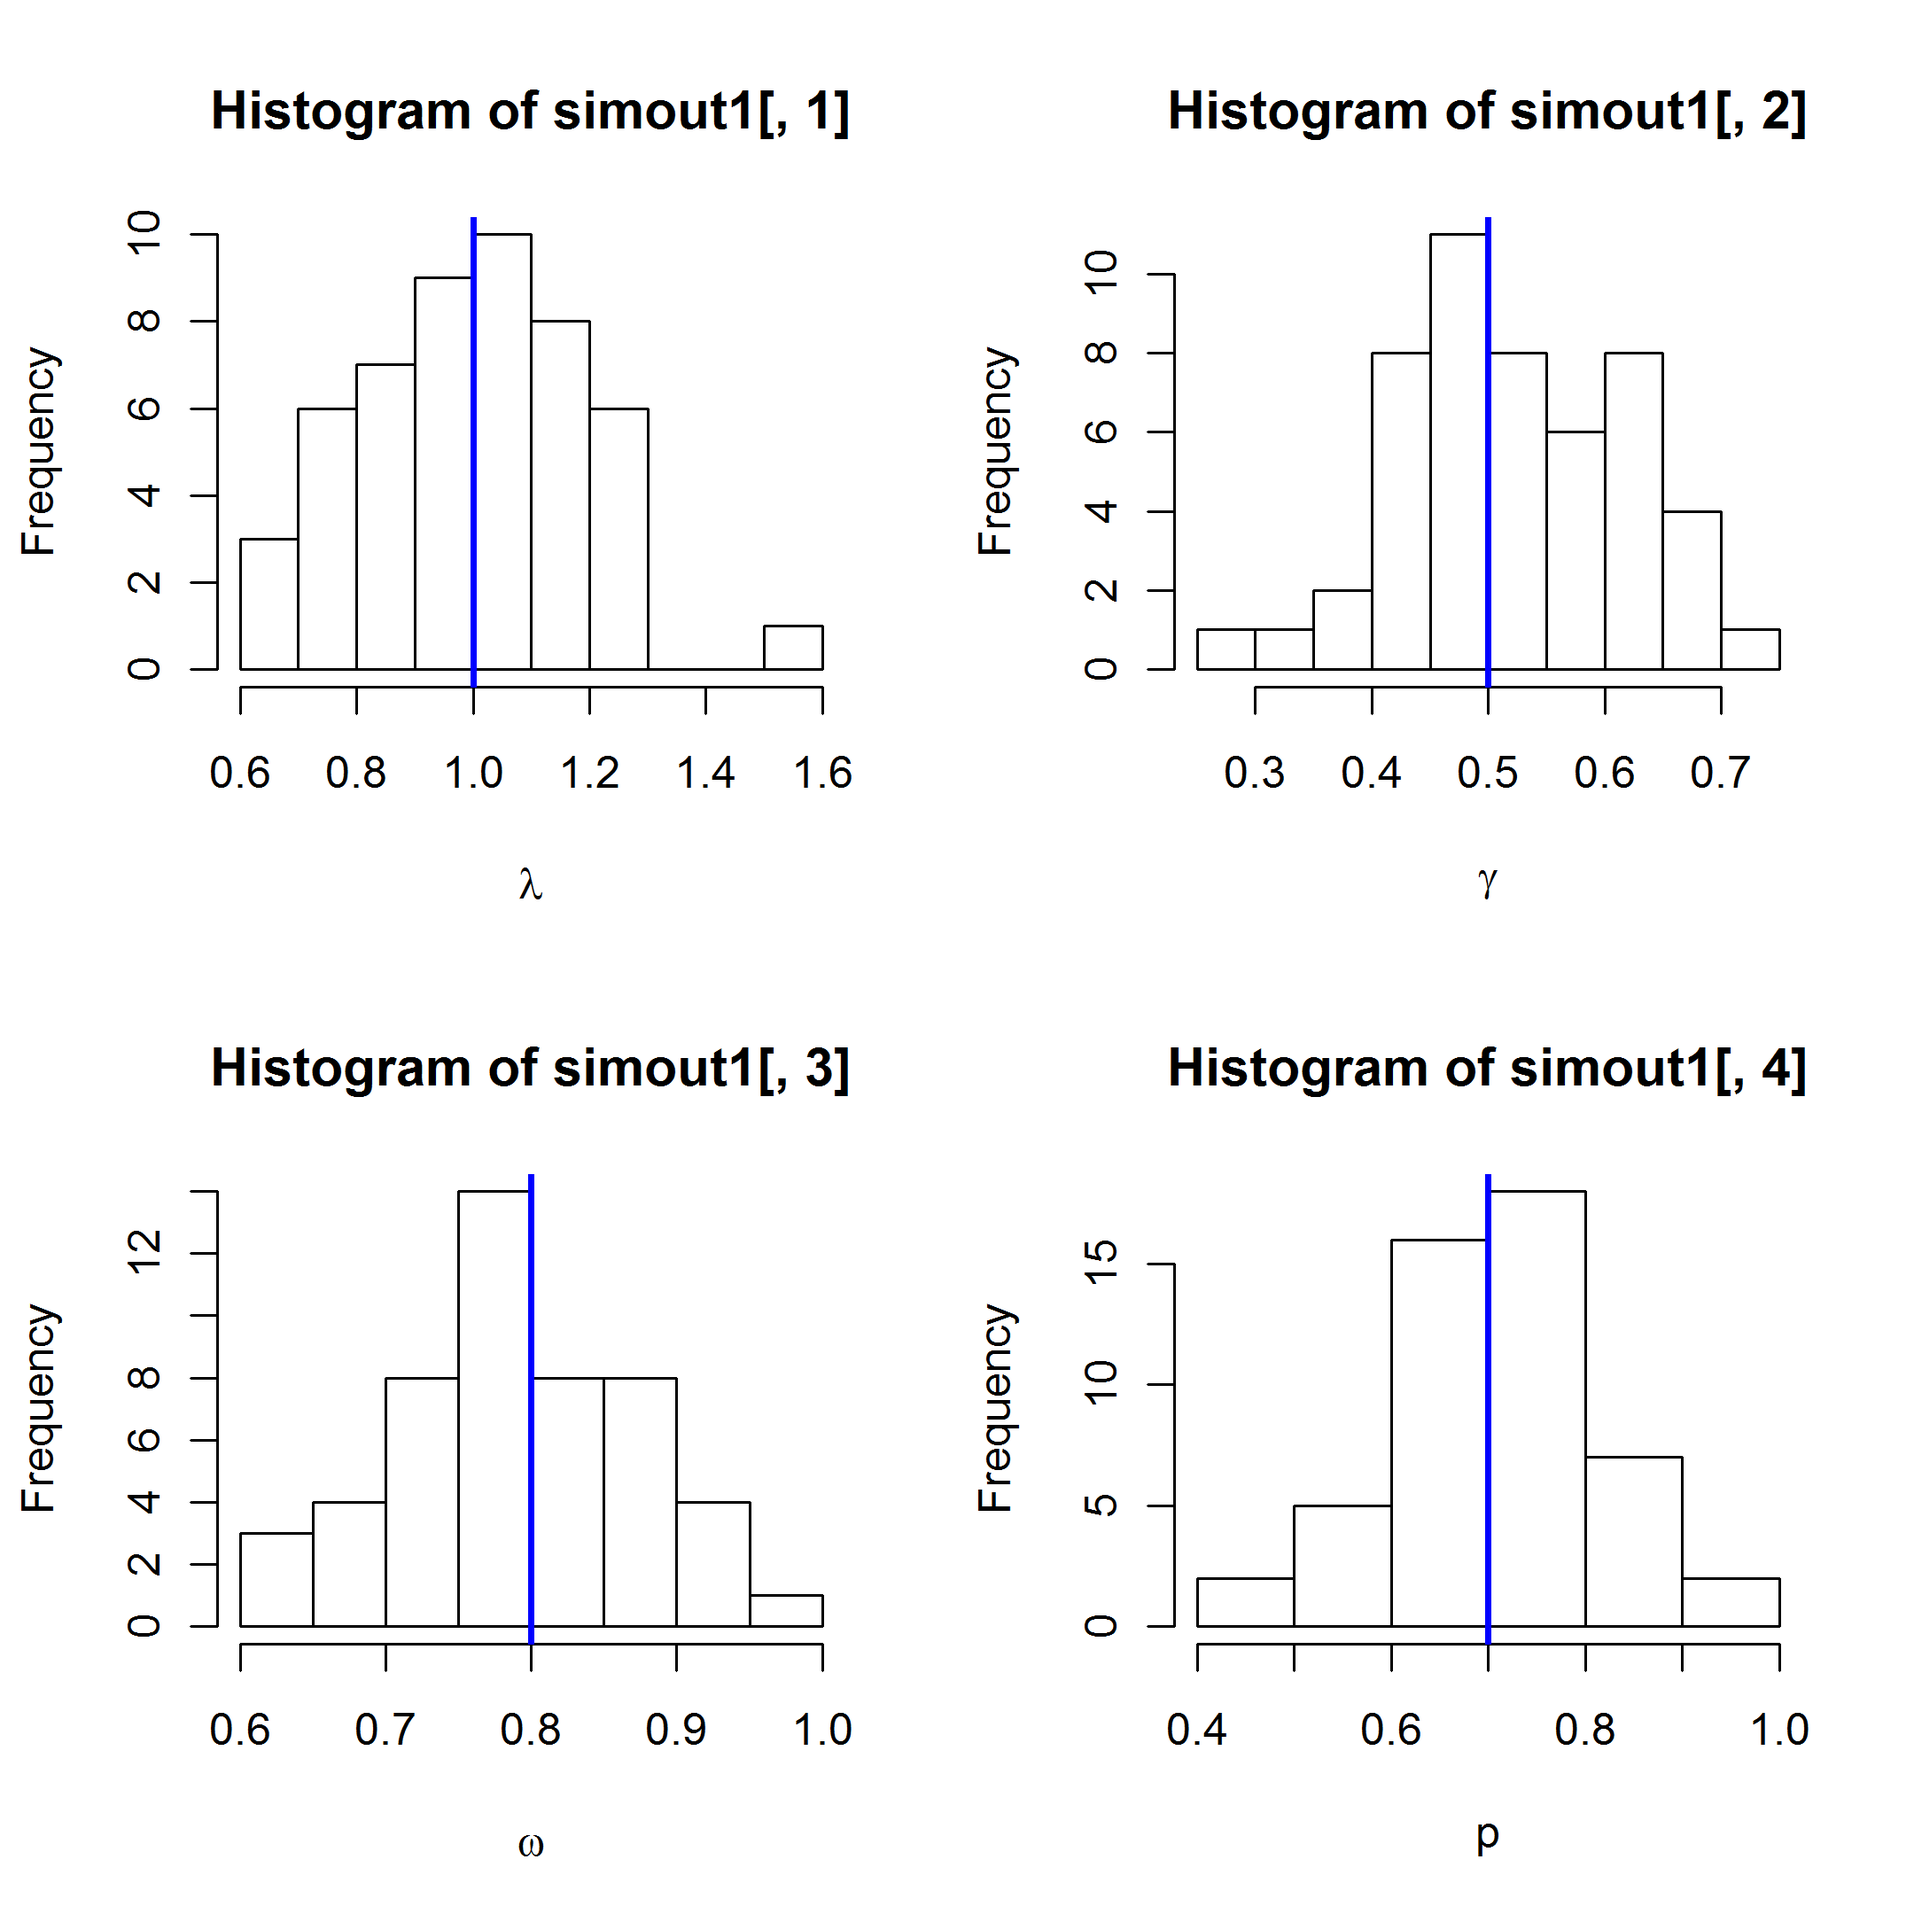
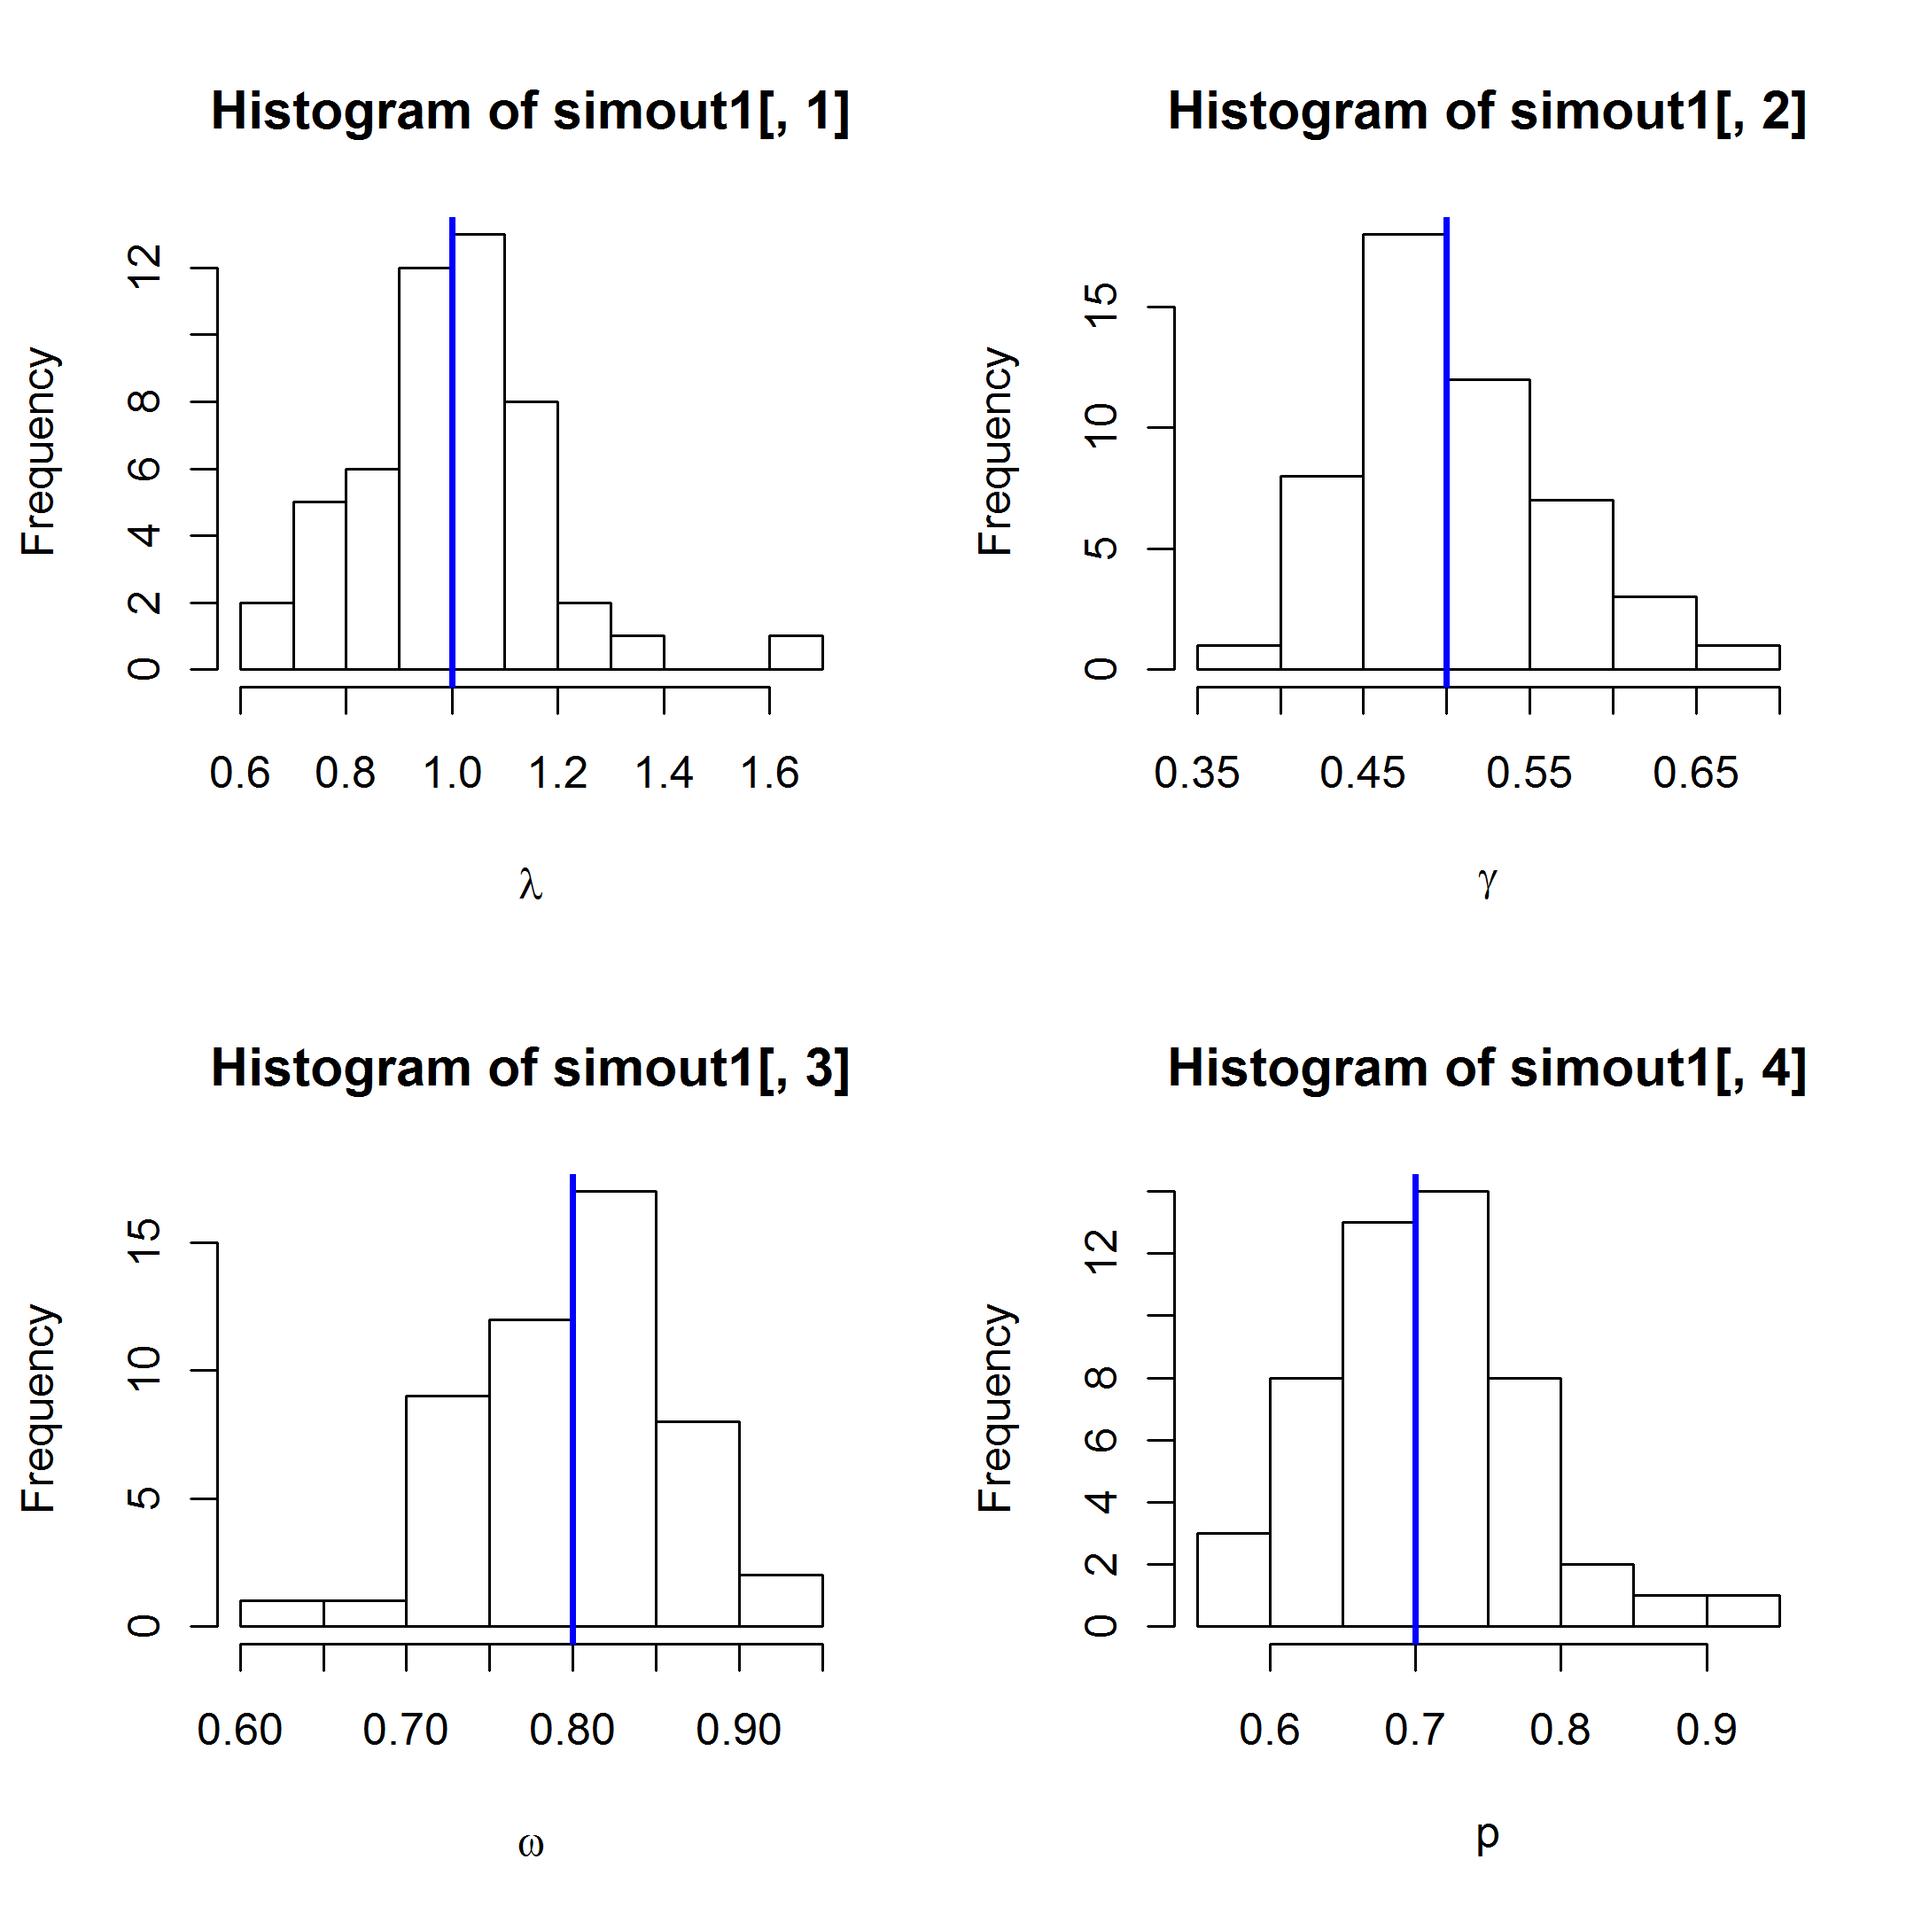
fixed problem in pcountOpen when delta was >1. probs needed to sum to 1. Added new tests too

diff --git a/src/tranProbs.cpp b/src/tranProbs.cpp
@@ -25,8 +25,12 @@ SEXP tranProbs( SEXP Kr, SEXP omegaR, SEXP gammaR, SEXP deltaR, SEXP dynamicsR)
             }
         }
     if(delta > 1) {    
-        for(int i=1; i<delta; i++) {
+        for(int d=1; d<delta; d++) {
             bpsum *= bpsum;
+            arma::rowvec cs = sum(bpsum, 0);
+            for(int i=0; i<lk; i++) {
+                bpsum.row(i) = bpsum.row(i) / cs;
+                }
             }
         }
     return wrap(bpsum);

diff --git a/src-i386/tranProbs.cpp b/src-i386/tranProbs.cpp
@@ -27,6 +27,10 @@ SEXP tranProbs( SEXP Kr, SEXP omegaR, SEXP gammaR, SEXP deltaR, SEXP dynamicsR)
     if(delta > 1) {    
         for(int i=1; i<delta; i++) {
             bpsum *= bpsum;
+            arma::rowvec cs = sum(bpsum, 0);
+            for(int i=0; i<lk; i++) {
+                bpsum.row(i) = bpsum.row(i) / cs;
+                }
             }
         }
     return wrap(bpsum);

diff --git a/src-x64/tranProbs.cpp b/src-x64/tranProbs.cpp
@@ -27,6 +27,10 @@ SEXP tranProbs( SEXP Kr, SEXP omegaR, SEXP gammaR, SEXP deltaR, SEXP dynamicsR)
     if(delta > 1) {    
         for(int i=1; i<delta; i++) {
             bpsum *= bpsum;
+            arma::rowvec cs = sum(bpsum, 0);
+            for(int i=0; i<lk; i++) {
+                bpsum.row(i) = bpsum.row(i) / cs;
+                }
             }
         }
     return wrap(bpsum);
